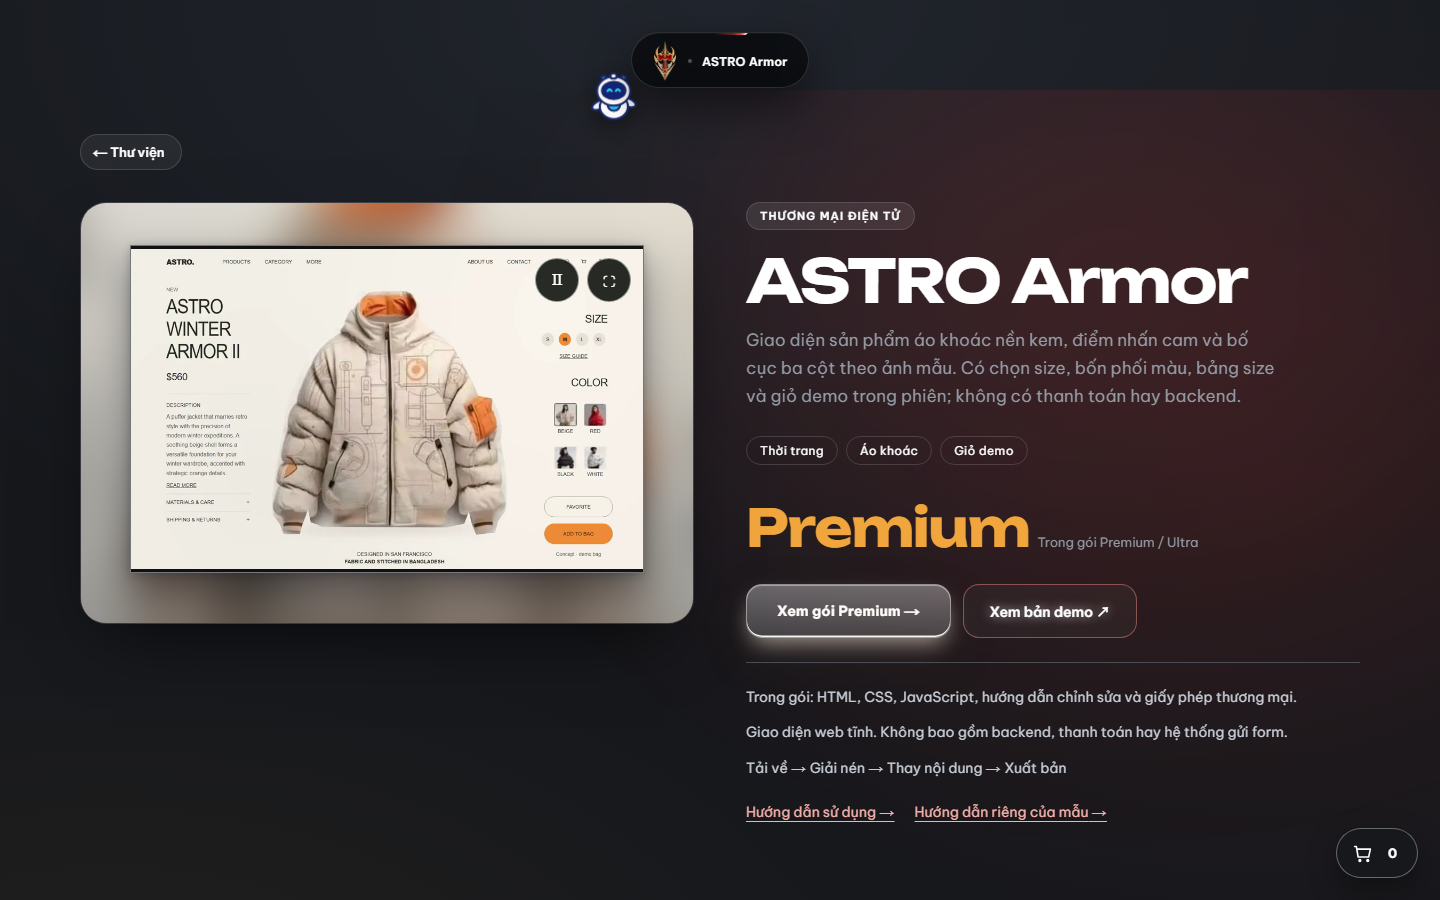
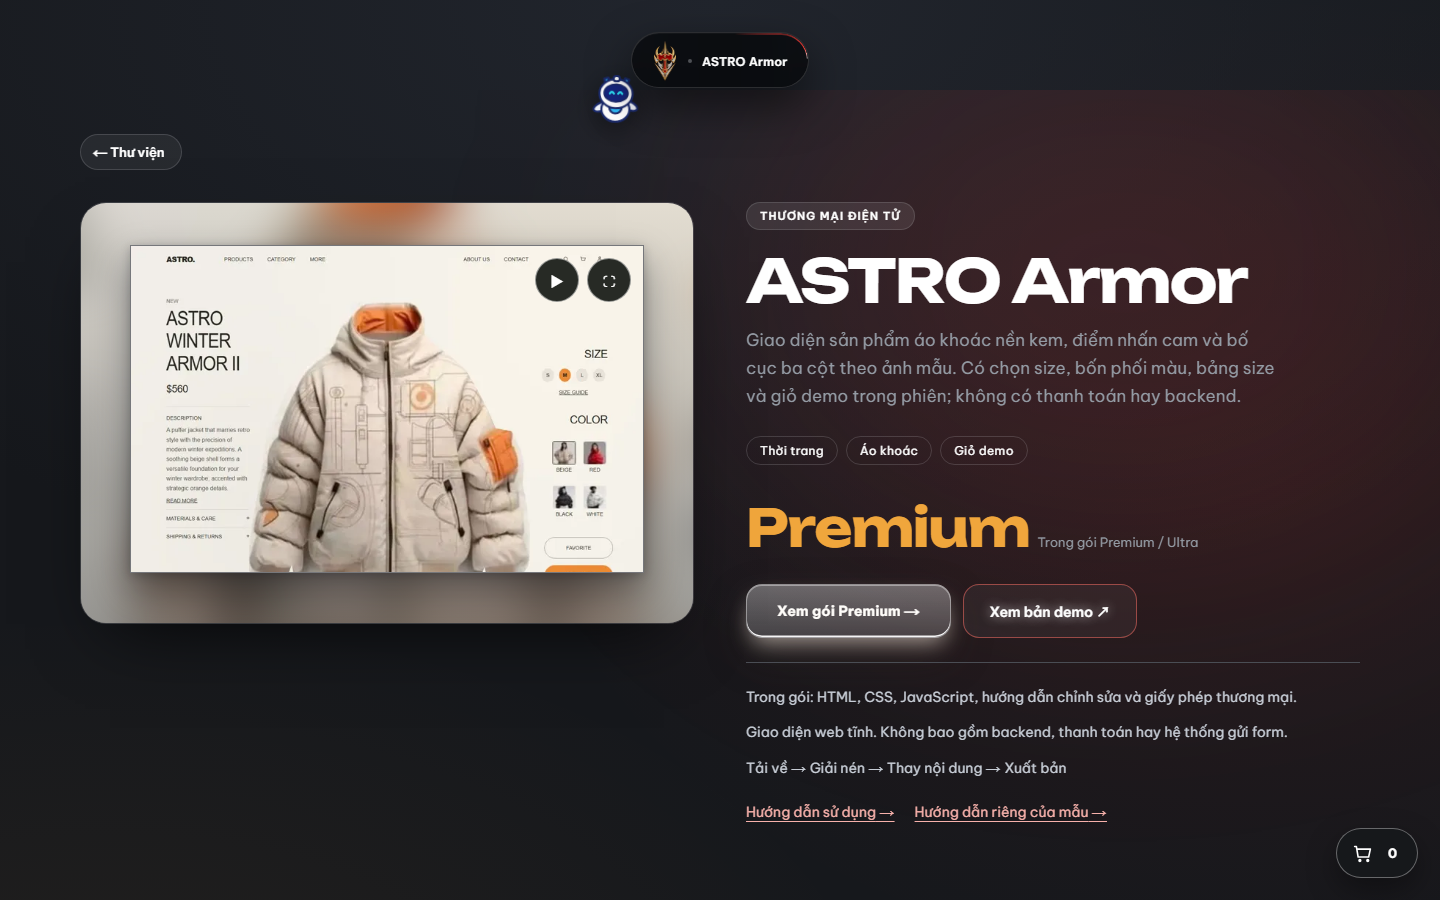
Record verified ASTRO production release

Changed region(s): [[0.0938, 0.3111, 0.4375, 0.6533], [0.0938, 0.2489, 0.4375, 0.3111], [0.4062, 0.0622, 0.4375, 0.1556]]

diff --git a/web/product/giao-dien-web/astro-armor/reviews/1.0.0/RELEASE.md b/web/product/giao-dien-web/astro-armor/reviews/1.0.0/RELEASE.md
@@ -1,0 +1,20 @@
+# ASTRO Armor 1.0.0 — published release
+
+Published 17 October 2026. Store ID t47, commerce category, existing Premium policy.
+
+- Product: https://forgezone.store/?mau=t47
+- Demo: https://forgezone.store/demos/astro-armor/index.html?v=1.0.0
+- Source: ../../source/
+- Download package: ../../astro-armor.zip
+- ZIP: 9 files, 415024 bytes; SHA-256 bd2e95c79ba3023adac2dac076b3368e041e3243879dc9f1a95f26bb1ed6a846
+- Source manifest: 202fdc0331a20e657d514a4748d29c7d755d265fe0409d2735c86eee82207fae
+- Preview: 558970 bytes, 14.966667 seconds, 960×600, 30 fps, no audio; revision 7217e6b57cdc; SHA-256 7217e6b57cdcf917b7b76c9378e2f9256bcb3964f78c04efbc03437fb179f369.
+- Deployed code: 3baf439, branch codex/astro-armor-release, repository https://github.com/htmtslh-hub/2A
+- Deployment: dpl_76518bnzZMBjjLap2QUJFPvWVXXa, https://web-3vvffntc2-htmtslh-hubs-projects.vercel.app ; READY and promoted to forgezone.store.
+- Production baseline: 922ae44c6876baec628ef8518327da2a1d8b8f21; FitClub Food and Chain Warden retained. All 49 recording hashes passed before deployment.
+
+Canonical ZIP, responsive, keyboard, accessibility and fallback checks are recorded in QA.md and package/checks.json. Public asset byte hashes, six locale/viewport store flows, download guards and four-browser preview autoplay checks are recorded in online-store.json. Actual online demo interactions and intermediate colour/scroll motion passed on Chromium 153, Firefox 155, Edge 155 and Cốc Cốc 152: online-demo.json, zero failures.
+
+The original photo limits crop resolution. Colour reconstructions and the session bag are demo features. Safari, physical devices, real paid-account download and payment completion were not tested. Visual rubric 96.164 is a review score, not pixel accuracy. User-approved W01/W03/W05/W06 exceptions apply to this product only.
+
+The release also excludes node_modules, .next and TypeScript cache files from deployment uploads via .vercelignore. No database, pricing or payment policy was changed. Final evidence-only commits do not modify deployed source or the frozen ZIP.

diff --git a/web/product/giao-dien-web/astro-armor/reviews/1.0.0/QA.md b/web/product/giao-dien-web/astro-armor/reviews/1.0.0/QA.md
@@ -15,7 +15,7 @@
 | Q09 technical | PASS zero canonical console/network errors; finite motion with no idle animation loop; package size 415024 bytes under approved size exception. No remote runtime/font dependency. |
 | Q10 docs/assets | PASS 10 steps, 12 complete prompts, literal edit counts verified, no required prompt fields left unfilled. System fonts only, no font redistribution. User-supplied reference and built-in ImageGen provenance in ASSETS.md; no trademark endorsement claimed. No claim of testing prompts in another AI. |
 | Q11 final ZIP | PASS 415024 bytes; SHA-256 bd2e95c79ba3023adac2dac076b3368e041e3243879dc9f1a95f26bb1ed6a846; nine extracted files byte-identical to source. file:// and HTTP tested from the official extracted ZIP. |
-| Q12 store | PASS local store; online verification pending. Premium membership policy inherited; no price override or entitlement changes. Real paid-account download and real payment completion: NOT TESTED, no test entitlement fabricated. |
+| Q12 store | PASS public deployment/assets/guards and store browser checks. Premium membership policy inherited; no price override or entitlement changes. Real paid-account download and real payment completion: NOT TESTED, no test entitlement fabricated. |
 | Q13 design | PASS D01–D08 and weighted visual rubric 96.164; rubric is not pixel accuracy. See ACCEPTANCE.md and comparison diagnostics. |
 
 ## Design checks

diff --git a/web/product/giao-dien-web/astro-armor/README.md b/web/product/giao-dien-web/astro-armor/README.md
@@ -1,3 +1,9 @@
 # ASTRO Armor 1.0.0
 
-Source: source/. Visual reference: user-supplied ASTRO puffer product page. Nine-file static template with local WebP and page-session selectors/bag. W01/W03/W05/W06 exceptions approved on 17 October 2026. Source and visual QA in reviews/1.0.0/. Publication pending acceptance; no live URL claimed.
+Published: https://forgezone.store/?mau=t47
+
+Demo: https://forgezone.store/demos/astro-armor/index.html?v=1.0.0
+
+Source: source/. Package: astro-armor.zip (9 files, 415024 bytes). Local assets and session size/colour/bag interactions use the explicit user-approved W01/W03/W05/W06 exceptions.
+
+Release provenance and validation: [RELEASE.md](reviews/1.0.0/RELEASE.md), [QA.md](reviews/1.0.0/QA.md). Real checkout and paid-account downloads were not tested.
